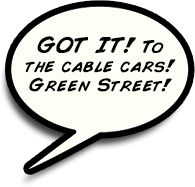
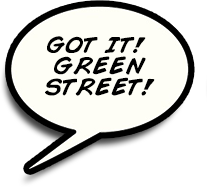
Updated to panels and speech bubbles

Changed region(s): [[0.0, 0.0, 1.0, 0.9358]]

diff --git a/public/js/Page1.js b/public/js/Page1.js
@@ -38,9 +38,9 @@ function Page1()
 		mImgPanel10 = this.Preload("images/p1/panel10.png");
 		mImgBubble1 = this.Preload("images/p1/bubble1.png");
 		mImgBubble2 = this.Preload("images/p1/bubble2.png");
-		//mImgBubble3 = this.Preload("images/p1/bubble3.png");
 		mImgBubble4 = this.Preload("images/p1/bubble4.png");
 		mImgBubble5 = this.Preload("images/p1/bubble5.png");
+		mImgBubble8 = this.Preload("images/p1/bubble8.png");
 		mImgBubble9 = this.Preload("images/p1/bubble9.png");
 		this.zIndex += 1;
 	}
@@ -88,12 +88,12 @@ function Page1()
 		surface.drawImage(mImgBubble1, 824, -40 - (30*Interpolation.easeOutQuad(surface.globalAlpha))+30);
 		surface.globalAlpha = Interpolation.Normalize(this.Interpolator, 1.3, 1.4);
 		surface.drawImage(mImgBubble2, 1214, 36 - (30*Interpolation.easeOutQuad(surface.globalAlpha))+30);
-		//surface.globalAlpha = Interpolation.Normalize(this.Interpolator, 1.4, 1.5);
-		//surface.drawImage(mImgBubble3, 1238, 430 - (30*Interpolation.easeOutQuad(surface.globalAlpha))+30);
 		surface.globalAlpha = Interpolation.Normalize(this.Interpolator, 1.6, 1.7);
 		surface.drawImage(mImgBubble4, 1604, 136 - (30*Interpolation.easeOutQuad(surface.globalAlpha))+30);
 		surface.globalAlpha = Interpolation.Normalize(this.Interpolator, 1.9, 2.0);
 		surface.drawImage(mImgBubble5, 2000, 370 - (30*Interpolation.easeOutQuad(surface.globalAlpha))+30);
+		surface.globalAlpha = Interpolation.Normalize(this.Interpolator, 1.75, 1.85);
+		surface.drawImage(mImgBubble8, 1750, 330 - (30*Interpolation.easeOutQuad(surface.globalAlpha))+30);
 		surface.restore();
 	}
 

diff --git a/public/js/Page5.js b/public/js/Page5.js
@@ -20,7 +20,8 @@ function Page5()
 		mImgBubble5,
 		mImgBubble6,
 		mImgBubble7,
-		mImgBubble8;
+		mImgBubble8,
+		mImgBubble9;
 
 	this.Initialize = function()
 	{
@@ -43,6 +44,7 @@ function Page5()
 		mImgBubble6 = this.Preload("images/p5/bubble6.png");
 		mImgBubble7 = this.Preload("images/p5/bubble7.png");
 		mImgBubble8 = this.Preload("images/p5/bubble8.png");
+		mImgBubble9 = this.Preload("images/p5/bubble9.png");
 		this.zIndex += 4;
 	}
 
@@ -99,8 +101,8 @@ function Page5()
 		surface.drawImage(mImgBubble6, 1290, 556 - (30*Interpolation.easeOutQuad(surface.globalAlpha))+30);
 		surface.globalAlpha = Interpolation.Normalize(this.Interpolator, 1.6, 1.65);
 		surface.drawImage(mImgBubble7, 1644, 362 - (30*Interpolation.easeOutQuad(surface.globalAlpha))+30);
-		//surface.globalAlpha = Interpolation.Normalize(this.Interpolator, 1.9, 2.0);
-		//surface.drawImage(mImgBubble8, 2000, 580 - (30*Interpolation.easeOutQuad(surface.globalAlpha))+30);
+		surface.globalAlpha = Interpolation.Normalize(this.Interpolator, 2.0, 2.1);
+		surface.drawImage(mImgBubble9, 1780, 20 - (30*Interpolation.easeOutQuad(surface.globalAlpha))+30);
 		surface.restore();
 	}
 
